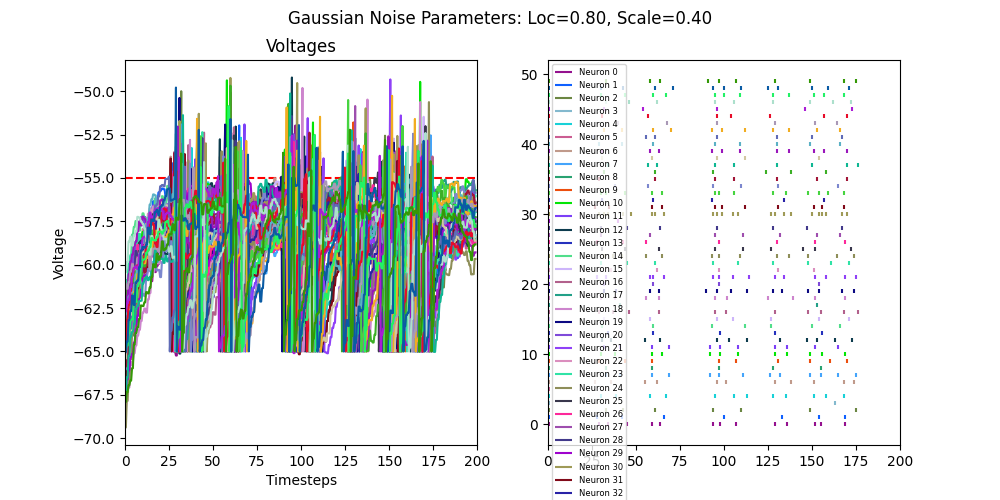
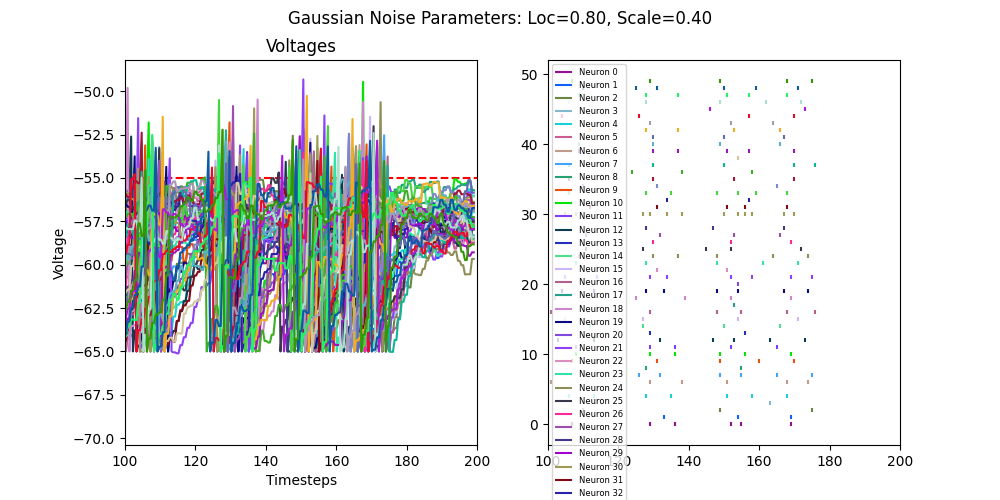
pattern analysis measure and plot

diff --git a/model.py b/model.py
@@ -3,6 +3,7 @@ import matplotlib.pyplot as plt
 import networkx as nx
 import random
 import seaborn as sns
+from scipy.interpolate import make_smoothing_spline, BSpline
 
 
 #(self, delta_time = 1.0, tau=20.0, threshold=0.1, reset_voltage=0.0, resting_potential=0.0, neurons=10, input_matrix=None, connectivity_matrix=None)
@@ -291,6 +292,10 @@ class SNN:
             #ax.set_title(f"Spikes")
             ax[1].legend(loc = "upper left", prop={'size': 6})
             ax[1].set_xlim(self.plot_xlim)
+
+            # if scatterplot:
+            # neuron_idx, time_idx = np.where(spike_trains == 1)
+            # plt.scatter(time_idx, neuron_idx, s=5, marker='*')
         
         # Save plot as image
         fig.suptitle(f'Gaussian Noise Parameters: Loc={self.loc:.2f}, Scale={self.scale:.2f}')
@@ -301,10 +306,11 @@ class SNN:
 
         return title
 
-    def plot_patterns(self, spikes):
+    def analyse_plot_patterns(self, spikes):
 
         patterns = spikes.sum(axis=0)
         plt.plot(range(self.time_steps+1), patterns)
+
 
         # Save plot as image
         plt.title(f'Gaussian Noise Parameters: Loc={self.loc:.2f}, Scale={self.scale:.2f}')
@@ -312,6 +318,27 @@ class SNN:
         plt.savefig(title)
         #plt.show()
         plt.close()
+
+        max = np.max(patterns)
+        pattern_threshold = max - max*0.8
+
+        print("thresh", pattern_threshold)
+
+        len_patterns = []
+        counter = 0
+
+        for p in patterns:
+
+            if p <= pattern_threshold:
+                len_patterns.append(counter)
+                counter = 0
+
+            if p > pattern_threshold:
+                counter +=1
+        
+        len_patterns = np.asarray(len_patterns)
+        return(len_patterns[len_patterns != 0])
+
 
 
     def graph(self):

diff --git a/test.py b/test.py
@@ -7,27 +7,7 @@ from scipy.interpolate import make_smoothing_spline, BSpline
 
 if __name__ == "__main__":
 
-    time_steps = range(10)
-
-    x1 = np.array(((0,0,0,1,0,1,0,0,0,0),(0,0,0,1,0,1,0,0,0,0),(0,0,0,1,0,1,0,0,0,0)))
-    patterns = x1.sum(axis=0)
-    print(np.sort(patterns))
-
-    x = np.arange(0, 2*np.pi+np.pi/4, 2*np.pi/16)
-    rng = np.random.default_rng()
-    y =  np.sin(x) + 0.4*rng.standard_normal(size=len(x))
-
-    print(x)
-    print(y)
-
-    xnew = np.arange(0, 9/4, 1/50) * np.pi
-    spl = make_smoothing_spline(time_steps, patterns, lam=0.02)
-    plt.plot(xnew, spl(xnew), '-.', label=fr'$\lambda=${0.02}')
-        
-    plt.plot(time_steps, patterns, 'o')
-
-    plt.show()
-    
-    #plt.plot(time_steps, patterns)
-    #plt.show()
+    list = [1,2,3]
+    list = np.asarray(list)
+    print(type(list))
         

diff --git a/MAIN.py b/MAIN.py
@@ -59,7 +59,7 @@ if __name__ == "__main__":
         for scale in scales:
   
             # set up the model and connection strength
-            snn = model.SNN(num_neurons=50, time_steps=timesteps, loc = loc, scale = scale, plot_xlim = [0,200])
+            snn = model.SNN(num_neurons=50, time_steps=timesteps, loc = loc, scale = scale, plot_xlim = [100,200])
             snn.auto_connect(0.05, 30, 10)
 
             # let the neuron run for x timesteps
@@ -88,7 +88,8 @@ if __name__ == "__main__":
             img = Image.open(file)
             ax[num_locs, num_scales].imshow(img)
             img.close()
-            snn.plot_patterns(spikes)
+            pattern_length = snn.analyse_plot_patterns(spikes)
+            print(loc, scale, np.mean(pattern_length))
 
             # update helper variables
             loop += 1
